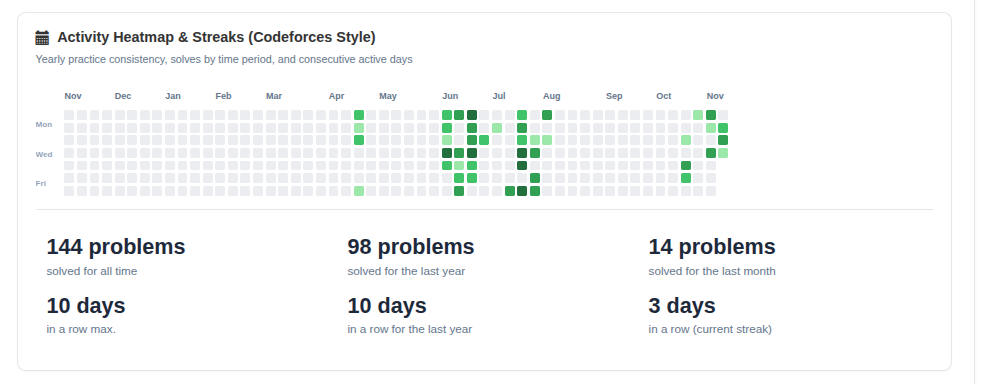
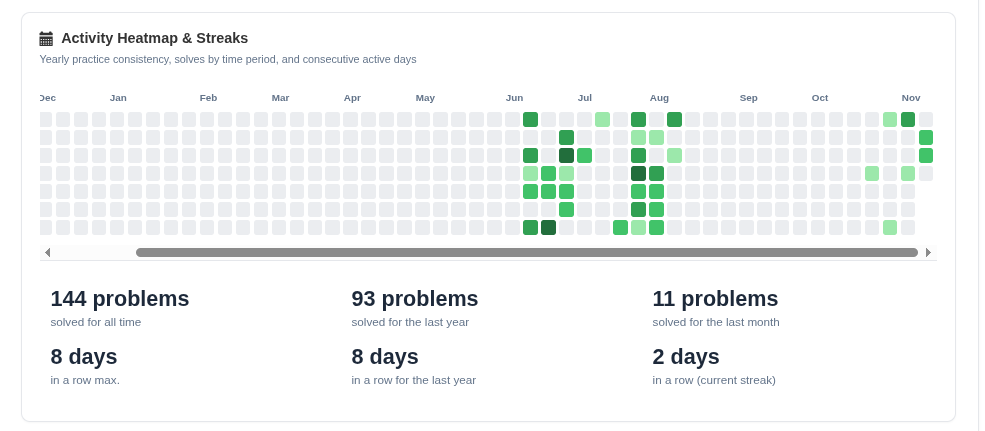
docs: use 3 new official dashboard screenshots and update README

diff --git a/README.md b/README.md
@@ -56,8 +56,8 @@ You can install and use AtCoder Pulse in under 1 minute on any Chromium-based br
 
 ## ✨ Features & Screenshots
 
-### 1. 📅 Activity Heatmap & Streaks (Codeforces-Style)
-Track your daily practice habits over a 53-week GitHub/Codeforces-style calendar. Automatically scrolls to the current date so your latest updates are always front and center.
+### 1. 📅 Activity Heatmap & Streaks (Row 1)
+Track your practice consistency over a 53-week GitHub/Codeforces-style calendar. The scrollbar automatically defaults to the rightmost edge so your latest solve updates are instantly visible.
 
 ![Activity Heatmap & Streaks](screenshots/activity-heatmap.png)
 
@@ -66,21 +66,30 @@ Track your daily practice habits over a 53-week GitHub/Codeforces-style calendar
 
 ---
 
-### 2. 📊 Solved by Difficulty (200-Rating Intervals)
+### 2. 📊 Solved by Difficulty (200-Rating Intervals) (Row 2)
 Visualizes your problem distribution across 18 granular 200-rating intervals (`0-199`, `200-399` ... `3000-3199`, `3200+`, and `Unrated`) using AtCoder's official tier colors.
 
 ![Solved by Difficulty](screenshots/difficulty-distribution.png)
 
-- **Interactive Filtering**: Click any bar to instantly filter the Solved List to show only problems in that rating range!
+- **Interactive Filtering**: Click any bar to instantly filter the Solved List to inspect problems in that rating range!
+- **Accurate 0-Count Handling**: Clean tracks without misleading colored stubs for intervals with zero solves.
 
 ---
 
-### 3. 🔍 Search, Task (A–Ex) Filtering & Multi-Criteria Sorting
-Full control over your solved and unsolved problem lists with live search, dedicated task selectors, and flexible sorting.
+### 3. 📋 Problem Task Index & Submission Analytics (Row 3)
+A dual-panel breakdown providing actionable insights into your contest problem tendencies and coding language preferences.
 
-![Search, Task Filter & Sorting Toolbar](screenshots/search-filter-sorting.png)
+![Task Index Breakdown & Submission Analytics](screenshots/task-index-and-verdicts.png)
 
-- **Task Index Selector**: Filter directly by `Task A`, `Task B`, `Task C`, `Task D`, `Task E`, `Task F`, `Task G`, `Task Ex`, or `Other`.
+- **Task Index Breakdown (A, B, C, D, E, F, G, Ex)**: Shows your solve counts across every task letter. Click any task row to view solved problems for that task!
+- **Verdicts Progress Bar**: Color-coded segmented bar for AC, WA, TLE, RE, CE, and MLE verdicts.
+- **Language Statistics**: Accurate percentage breakdown of your most-used programming languages (C++, PyPy, Python, Rust, etc.).
+
+---
+
+### 4. 🔍 Search, Task (A–Ex) Filter & Multi-Criteria Sorting
+Full control over your solved and unsolved problem lists with live search, dedicated task selectors, and flexible sorting:
+- **Task Selector**: Filter directly by `Task A`, `Task B`, `Task C`, `Task D`, `Task E`, `Task F`, `Task G`, `Task Ex`, or `Other`.
 - **Multi-Criteria Sorting**:
   - `Recently Solved First` (or Recently Attempted)
   - `Task: A to Ex` (A ➔ B ➔ C ... ➔ Ex)
@@ -91,20 +100,9 @@ Full control over your solved and unsolved problem lists with live search, dedic
 
 ---
 
-### 4. 🔥 Compact Solved & Unsolved Backlog Lists
-Quickly review past attempts and see problems that still need an Accepted verdict.
-
-![Solved and Unsolved Problem Lists](screenshots/solved-unsolved-list.png)
-
-- **At-a-Glance Badges**: Difficulty rating pill, attempt count, failed verdicts, time ago, and contest tag.
-- **⚡ 1st-Try AC Detection**: Highlights whether a problem was solved on the first submission or required retries.
-- **One-Click Links**: Jump straight into the task statement or review past submissions.
-
----
-
 ### 5. ⚡ Instant Sync & Smart Caching
 - **Instant Local Cache**: Renders immediately on page load from IndexedDB without waiting for network requests.
-- **Direct AtCoder Scraping**: Bypasses Kenkoooo crawl delays by fetching your recent submissions directly from AtCoder for real-time AC updates.
+- **Direct AtCoder Scraping**: Bypasses Kenkoooo crawl delays by fetching your recent submissions directly from AtCoder for real-time AC updates on `Sync Now`.
 - **24-Hour Metadata TTL**: Problem models and contest indexes are cached locally to minimize network traffic.
 
 ---
@@ -123,8 +121,7 @@ Switch between dark and light modes with a single click using the theme toggle b
 ├── screenshots/                   # Feature screenshots for documentation
 │   ├── activity-heatmap.png
 │   ├── difficulty-distribution.png
-│   ├── search-filter-sorting.png
-│   └── solved-unsolved-list.png
+│   └── task-index-and-verdicts.png
 ├── icons/                         # 16, 32, 48, 128px extension icons
 ├── popup/                         # Toolbar quick-view popup (HTML/CSS/JS)
 ├── content/                       # Injected dashboard scripts & styles
